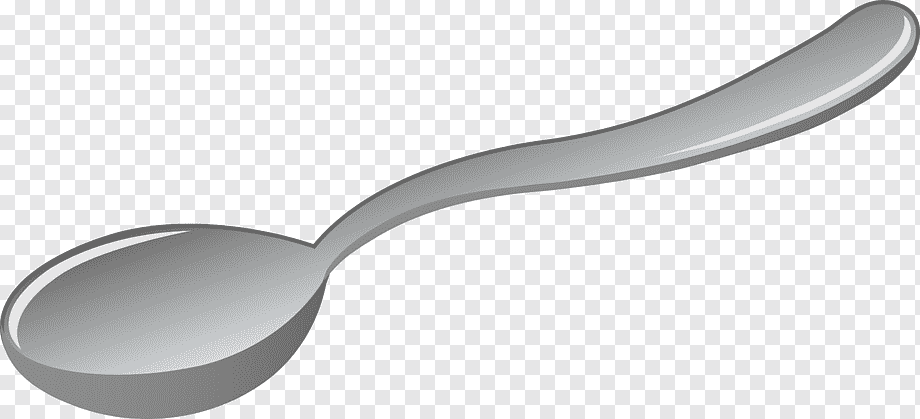
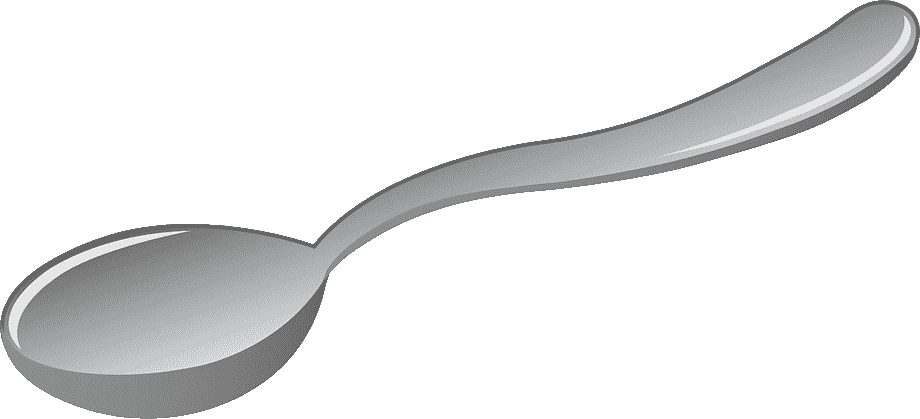
Transparência nas imagens

diff --git a/src/data/cards/stage.ts b/src/data/cards/stage.ts
@@ -1,16 +1,16 @@
 import IronForkImg from '../../assets/stage/iron-fork.jpg';
 import IronKeyImg from '../../assets/stage/iron-key.png';
-import IronKnifeImg from '../../assets/stage/iron-knife.jpg';
+import IronKnifeImg from '../../assets/stage/iron-knife.png';
 import IronNailImg from '../../assets/stage/iron-nail.png';
-import IronCrewImg from '../../assets/stage/iron-screw.jpg';
+import IronCrewImg from '../../assets/stage/iron-screw.png';
 import IronSpoonImg from '../../assets/stage/iron-spoon.png';
 import IronTableImg from '../../assets/stage/iron-table.png';
 import WoodenIronChairImg from '../../assets/stage/wooden-iron-chair.png';
 
-import WoodenBedImg from '../../assets/stage/wooden-bed.jpg';
+import WoodenBedImg from '../../assets/stage/wooden-bed.png';
 import WoodenChairImg from '../../assets/stage/wooden-chair.png';
-import WoodenDoorImg from '../../assets/stage/wooden-door.jpg';
-import WoodenTableImg from '../../assets/stage/wooden-table.jpg';
+import WoodenDoorImg from '../../assets/stage/wooden-door.png';
+import WoodenTableImg from '../../assets/stage/wooden-table.png';
 import WoodenWardrobeImg from '../../assets/stage/wooden-wardrobe.png';
 
 import PaperBagImg from '../../assets/stage/paper-bag.png';
@@ -31,12 +31,12 @@ import PlasticSyringeImg from '../../assets/stage/plastic-syringe.png';
 import PlasticTelephoneImg from '../../assets/stage/plastic-telephone.png';
 
 import GlassBottleImg from '../../assets/stage/glass-bottle.png';
-import GlassBowlImg from '../../assets/stage/glass-bowl.jpg';
+import GlassBowlImg from '../../assets/stage/glass-bowl.png';
 import GlassCupImg from '../../assets/stage/glass-cup.png';
 import GlassDishImg from '../../assets/stage/glass-dish.png';
-import GlassLampImg from '../../assets/stage/glass-lamp.jpg';
-import GlassMateImg from '../../assets/stage/glass-mate.jpg';
-import GlassMirrorImg from '../../assets/stage/glass-mirror.jpg';
+import GlassLampImg from '../../assets/stage/glass-lamp.png';
+import GlassMateImg from '../../assets/stage/glass-mate.png';
+import GlassMirrorImg from '../../assets/stage/glass-mirror.png';
 import GlassPlatterImg from '../../assets/stage/glass-platter.png';
 
 import Card from '../../interfaces/Card';
